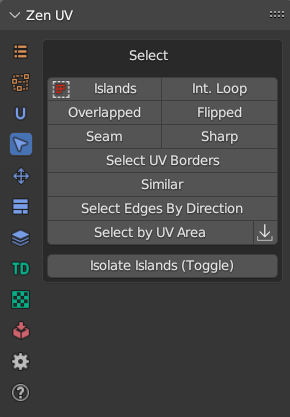
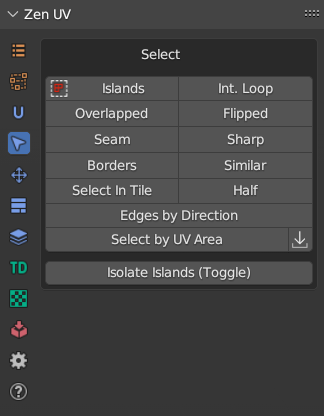
Updated Adv UV Maps and Select Panels

diff --git a/mkdocs/adv_uv-maps.md b/mkdocs/adv_uv-maps.md
@@ -4,13 +4,10 @@ It allows to select the active, add, remove, and rename UV Maps from the list.
 
 If more than one object is selected, you can synchronously work with UV maps of the selected objects.
 
-| Edit Mesh |
-|---|
-| ![](img/screen/adv_uv_map/adv_uv_map.png) |
-
-| Object |
-|---|
-| ![](img/screen/adv_uv_map/adv_uv_map__obj.png) |
+!!! Panel
+     | Edit Mode | Object Mode| 
+     |---|---|  
+     | ![](img/screen/adv_uv_map/adv_uv_map.png) |![](img/screen/adv_uv_map/adv_uv_map__obj.png)|  
 
 <!-- !!! tip
     Watch the video explaining how **Advanced UV Maps** works.
@@ -54,7 +51,7 @@ The list can work in two modes:
 | ![](img/screen/adv_uv_map/uvmaps_render_not_active.png) | UV Map is not active for render |
 
 ### UV Maps Status Detection
-Advanced Maps system detects synchronization status of all UV Maps in the selected objects. It is possible to disable some parameters which are not neccessary for you to detect
+Advanced Maps system detects synchronization status of all UV Maps in the selected objects. It is possible to disable some parameters which are not neccessary for you to detect.
 
 | ![](img/screen/adv_uv_map/uvmaps_status_detection.png) |
 |---|
@@ -110,23 +107,106 @@ If your model requires UV Maps to have the same postion, name, active or render 
 Allows transferring the UV coordinates between UV Maps.
 
 !!! note
-    Available in Edit Mesh mode if geometry of selecting objects is the same
+    Available in Edit Mesh mode if geometry of selected objects is the same.
 
 | ![](img/screen/adv_uv_map/copy_paste_UV.gif) |
 |---|
-| |
 
-**Copy UV** - Copy the UV coordinates of the **selection**.
+#### Copy UV 
 
-**Paste UV** - Paste the UV coordinates.
+Copy the UV coordinates of the selection.
+
+#### Paste UV 
+
+Paste the UV coordinates.
+
+---
+
+## Adv UV Maps Tools
+
+#### Clean UV Maps
+
+Remove all inactive UV Maps.
+
+![](img/screen/adv_uv_map/adv_uv_map_clean_inactive.gif)
+
+#### Set UV Map Name by Index
+
+Set UV Map name by its Index in the list.
+
+![](img/screen/adv_uv_map/adv_uv_map_rename_by_index.gif)
+
+---
 
 ## Transfer UV
 | ![](img/screen/adv_uv_map/transfer_uv_maps.png) |
 |---|
-| |
+
+![](img/screen/adv_uv_map/transfer_uv_maps.gif)
 
 | Transfer Modes | |
 |---|---|
 | Matching geometry | Objects must be of type mesh and must have a matching topology |
 | Advanced | Transfer UV maps by generating an interpolated mapping between source and target mesh elements |
 | Layout | Transfer layout of UV maps from active to selected meshes |
+
+---
+
+## UDIM tools
+
+[**UDIM workflow**](https://docs.blender.org/manual/en/latest/modeling/meshes/uv/workflows/udims.html) is a special workflow that allow to spread UV islands across several different textures of the model.
+
+!!! note
+    Available only in UV Editor context in Edit Mode.
+    The image Source must be set to 'UDIM Tiles'.
+
+![](img/screen/adv_uv_map/adv_uv_map_udim.png)
+
+
+#### Fill Tile
+
+Fill the current tile with a generated texture.
+
+#### Add Missed
+
+Create the missing UDIM Tile at the Island location. 
+
+![](img/screen/adv_uv_map/adv_uv_map_udim_add_missed.png)
+
+
+| Options | |
+|---|---|
+| By Selection | Use selection to determine where where UDIM tile will be created|
+| In order | Create all the missing tiles in order until it reaches the last missed tile with the selection |
+| Fill | Fill tile with settings below |
+
+
+#### Set Active 
+
+Set the active UDIM Tile based on the selection. 
+
+![](img/screen/adv_uv_map/adv_uv_map_udim_set_active.gif)  
+
+#### Remove Active
+
+Remove the active UDIM Tile. 
+
+![](img/screen/adv_uv_map/adv_uv_map_udim_remove_active.gif) 
+
+#### Select in Active 
+
+Select Islands in bounding box of active UDIM Tile or UV Area.
+
+![](img/screen/adv_uv_map/adv_uv_map_udim_select_active.gif) 
+
+#### Move to active
+
+Move Islands to active or selected by number UDIM Tile. 
+
+![](img/screen/adv_uv_map/adv_uv_map_udim_move_active.gif) 
+
+#### Set Active
+
+Set active UDIM Tile by eyedropper.
+
+![](img/screen/adv_uv_map/adv_uv_map_udim_set_active_eyedropper.gif)

diff --git a/mkdocs/select.md b/mkdocs/select.md
@@ -1,13 +1,14 @@
 # Select
 
 !!! Panel
-    ![Select](img/screen/select/select_main_panel.png)
+    | 3D Viewport | UV Editor| 
+    |---|---|  
+    | ![](img/screen/select/select_main_panel.png) |![](img/screen/select/select_main_panel_uv.png)| 
 
 !!! Tip 
     Select **Seam** and **Sharp** are absent on the panel in **UV Editor**.
     To use these operators you need to switch to **3D Viewport** context. 
 
-    ![Select](img/screen/select/select_main_panel_uv.png)
 ---
 ### Islands ![](img/icons/select.png)
 Select Islands by selected edge/face of the Islands.
@@ -48,6 +49,18 @@ Select existing UV Borders.
 Select Islands similar to those selected.
 
 ![Select_Similar](img/gifs/select_operators/Select_Similar.gif)
+
+### Select in Tile
+Select Islands in bounding box of active UDIM Tile or UV Area.
+
+![](img/screen/adv_uv_map/adv_uv_map_udim_select_active.gif) 
+
+### Select Half
+Select part of the model according to its location relative to the coordinate axis.
+
+![Select_Half](img/screen/select/select_half.gif)
+
+![Select_Half](img/screen/select/select_half_zero.gif)
 
 ### Select Edges By Direction
 Select edges by direction along U or V axis.
